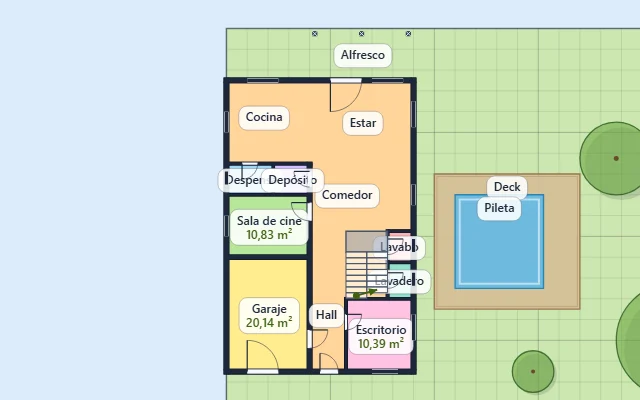
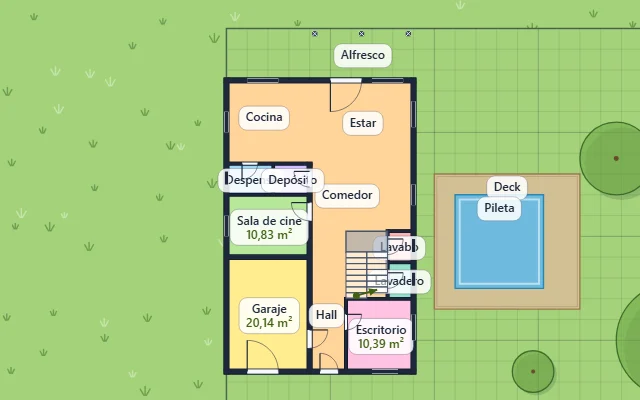
Exterior del lote del color del terreno y con pasto; terreno por defecto en un verde más de pasto
Las miniaturas de la Galería se regeneraron con el color nuevo.

diff --git a/assets/editor/renderer.js b/assets/editor/renderer.js
@@ -105,8 +105,11 @@ export class Renderer {
         const { cam } = f;
         ctx.setTransform(dpr, 0, 0, dpr, 0, 0);
         ctx.clearRect(0, 0, cam.w, cam.h);
-        ctx.fillStyle = drawTheme().sky;
+        // Con el terreno a la vista, lo de afuera del lote es del mismo color, con pasto; sin terreno, el fondo liso.
+        const showLot = f.ui?.showLot !== false;
+        ctx.fillStyle = showLot ? drawTheme().ground : drawTheme().sky;
         ctx.fillRect(0, 0, cam.w, cam.h);
+        if (showLot) this.drawGrass(f);
         this.drawGround(f);
         if (f.project) {
             this.drawZones(f);
@@ -258,6 +261,51 @@ export class Renderer {
         corners.forEach(([x, y], i) => (i ? ctx.lineTo(x, y) : ctx.moveTo(x, y)));
         ctx.closePath();
         ctx.stroke();
+    }
+
+    /**
+     * Pasto alrededor del lote: matas de tres briznas repartidas sobre el suelo. Van ancladas al mundo (se mueven con la
+     * vista) y siempre en el mismo lugar: la posición sale de un hash de la celda. Al alejar la vista las celdas se
+     * agrandan, así hay una mata cada ~36 px y no una mancha. Las que caen dentro del lote las tapa el terreno.
+     */
+    drawGrass(f) {
+        const { ctx } = this;
+        const { cam } = f;
+        const ground = drawTheme().ground;
+        let cell = 120;
+        while (cell * cam.zoom < 36) cell *= 2;
+        const corners = [[0, 0], [cam.w, 0], [cam.w, cam.h], [0, cam.h]].map(([x, y]) => cam.unproject(x, y, 0));
+        const i0 = Math.floor(Math.min(...corners.map((c) => c[0])) / cell);
+        const i1 = Math.ceil(Math.max(...corners.map((c) => c[0])) / cell);
+        const j0 = Math.floor(Math.min(...corners.map((c) => c[1])) / cell);
+        const j1 = Math.ceil(Math.max(...corners.map((c) => c[1])) / cell);
+        // dos tonos: las matas oscuras dan el dibujo y las claras, algo de variación
+        const paths = [new window.Path2D(), new window.Path2D()];
+        for (let i = i0; i <= i1; i++) {
+            for (let j = j0; j <= j1; j++) {
+                let h = (Math.imul(i, 73856093) ^ Math.imul(j, 19349663) ^ Math.imul(cell, 83492791)) >>> 0;
+                const rnd = () => {
+                    h = (Math.imul(h ^ (h >>> 15), 2246822519) + 0x9e3779b9) >>> 0;
+                    return (h >>> 8) / 16777216;
+                };
+                const [sx, sy] = cam.project((i + rnd()) * cell, (j + rnd()) * cell, 0);
+                if (sx < -12 || sy < -12 || sx > cam.w + 12 || sy > cam.h + 12) continue;
+                const size = 5 + rnd() * 4;
+                const path = paths[rnd() < 0.3 ? 1 : 0];
+                for (const k of [-1, 0, 1]) {
+                    path.moveTo(sx + k * 1.2, sy);
+                    path.lineTo(sx + k * size * 0.55, sy - size * (1 - Math.abs(k) * 0.3));
+                }
+            }
+        }
+        ctx.save();
+        ctx.lineCap = 'round';
+        ctx.lineWidth = 1.4;
+        ctx.strokeStyle = mix(ground, '#1f5a1c', 0.42);
+        ctx.stroke(paths[0]);
+        ctx.strokeStyle = mix(ground, '#ffffff', 0.38);
+        ctx.stroke(paths[1]);
+        ctx.restore();
     }
 
     drawGrid(cam, W, D, z) {

diff --git a/assets/lib/theme.js b/assets/lib/theme.js
@@ -10,7 +10,7 @@ export const PRESETS = {
     vivo: {
         name: 'Vivo',
         accent: '#78c23a', dark: '#1b2a41', surface: '#f4f8ff', panel: '#ffffff',
-        sky: '#dcebfb', ground: '#cde7b0', block: '#f3f1ec', cut: '#ffcb5c', u: '#7fc93c', roof: '#d9552c',
+        sky: '#dcebfb', ground: '#a4d279', block: '#f3f1ec', cut: '#ffcb5c', u: '#7fc93c', roof: '#d9552c',
         glass: '#62bdf0', door: '#b8692e', wood: '#e3a04c', slab: '#a3b1c5',
         floors: ['#ffd49a', '#9fd8f5', '#d3bdff', '#b6e699', '#ffb3b3', '#ffec8f', '#93e0cc', '#ffc2e2'],
     },
@@ -41,7 +41,7 @@ export const DEFAULT_PRESET = 'vivo';
 /** Campos editables en /estilos. */
 export const FIELDS = [
     ['Interfaz', [['accent', 'Acento (botones, pestañas)'], ['dark', 'Barra superior y texto'], ['surface', 'Fondo de las páginas'], ['panel', 'Paneles y tarjetas']]],
-    ['Dibujo', [['sky', 'Fondo del lienzo'], ['ground', 'Terreno'], ['block', 'Bloque'], ['cut', 'Bloque cortado'], ['u', 'Bloque U (dinteles y corona)'], ['roof', 'Techo'], ['glass', 'Vidrio'], ['door', 'Puertas'], ['wood', 'Madera'], ['slab', 'Losas y escalera']]],
+    ['Dibujo', [['sky', 'Fondo del lienzo (sin terreno)'], ['ground', 'Terreno y pasto'], ['block', 'Bloque'], ['cut', 'Bloque cortado'], ['u', 'Bloque U (dinteles y corona)'], ['roof', 'Techo'], ['glass', 'Vidrio'], ['door', 'Puertas'], ['wood', 'Madera'], ['slab', 'Losas y escalera']]],
 ];
 
 const HEX = /^#[0-9a-f]{6}$/i;

diff --git a/EDITOR.md b/EDITOR.md
@@ -10,6 +10,8 @@ El editor (`/`) es donde se dibuja la casa. Todo se apoya en la grilla del bloqu
 - **Vista**: *Isométrica* o *Planta* (`Tab`). Abajo a la izquierda, el **selector de vistas**: un cuadrado en cuatro
   cuartos con una flecha diagonal en cada uno (las cuatro vistas isométricas) y un ojo al centro; también `[` `]`.
 - **Ver adentro**: un deslizador baja la altura visible de los muros del nivel (no cambia el proyecto).
+- **Terreno y pasto**: fuera del lote el suelo sigue del mismo color que el terreno, con matas de pasto; adentro queda
+  liso con la retícula. Con «Mostrar terreno» apagado, el fondo es liso.
 - **Brújula con el sol** (arriba a la derecha) y sombras según época, latitud y hora.
 - **Panel derecho**: *Selección* o *Configuraciones generales* (terreno —con «Mostrar terreno» y «Mostrar cuadrícula»—,
   **norte** con una brújula que se arrastra (de a 5°, Mayús de a 1°, o escribiendo el ángulo), sol y ajustes del
